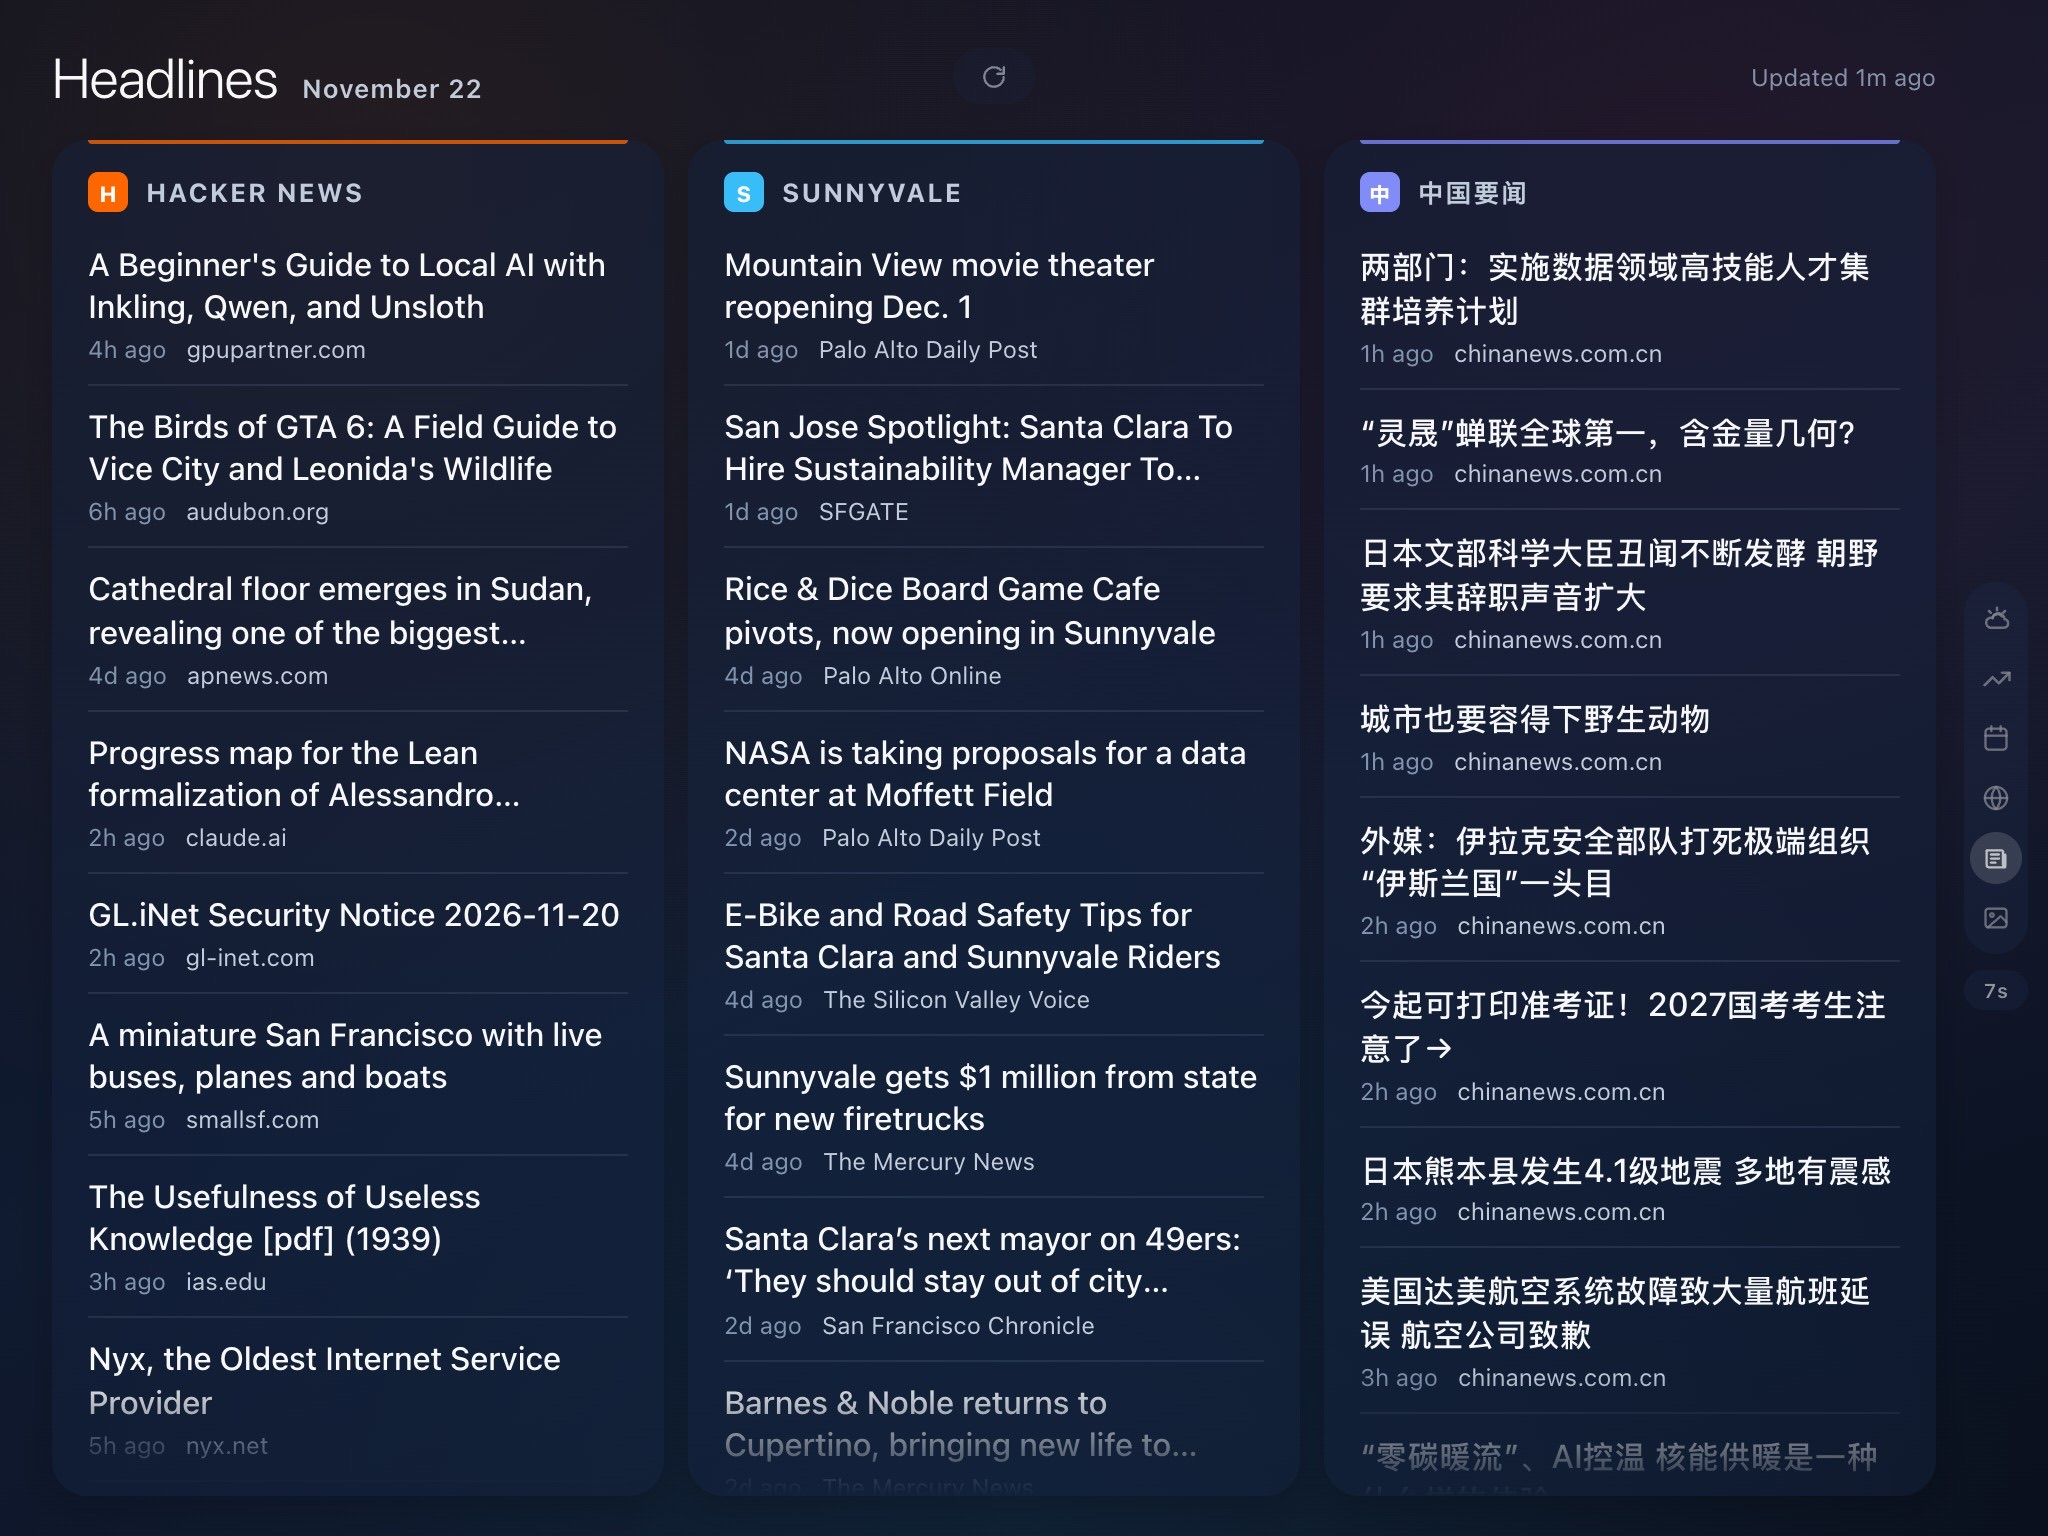
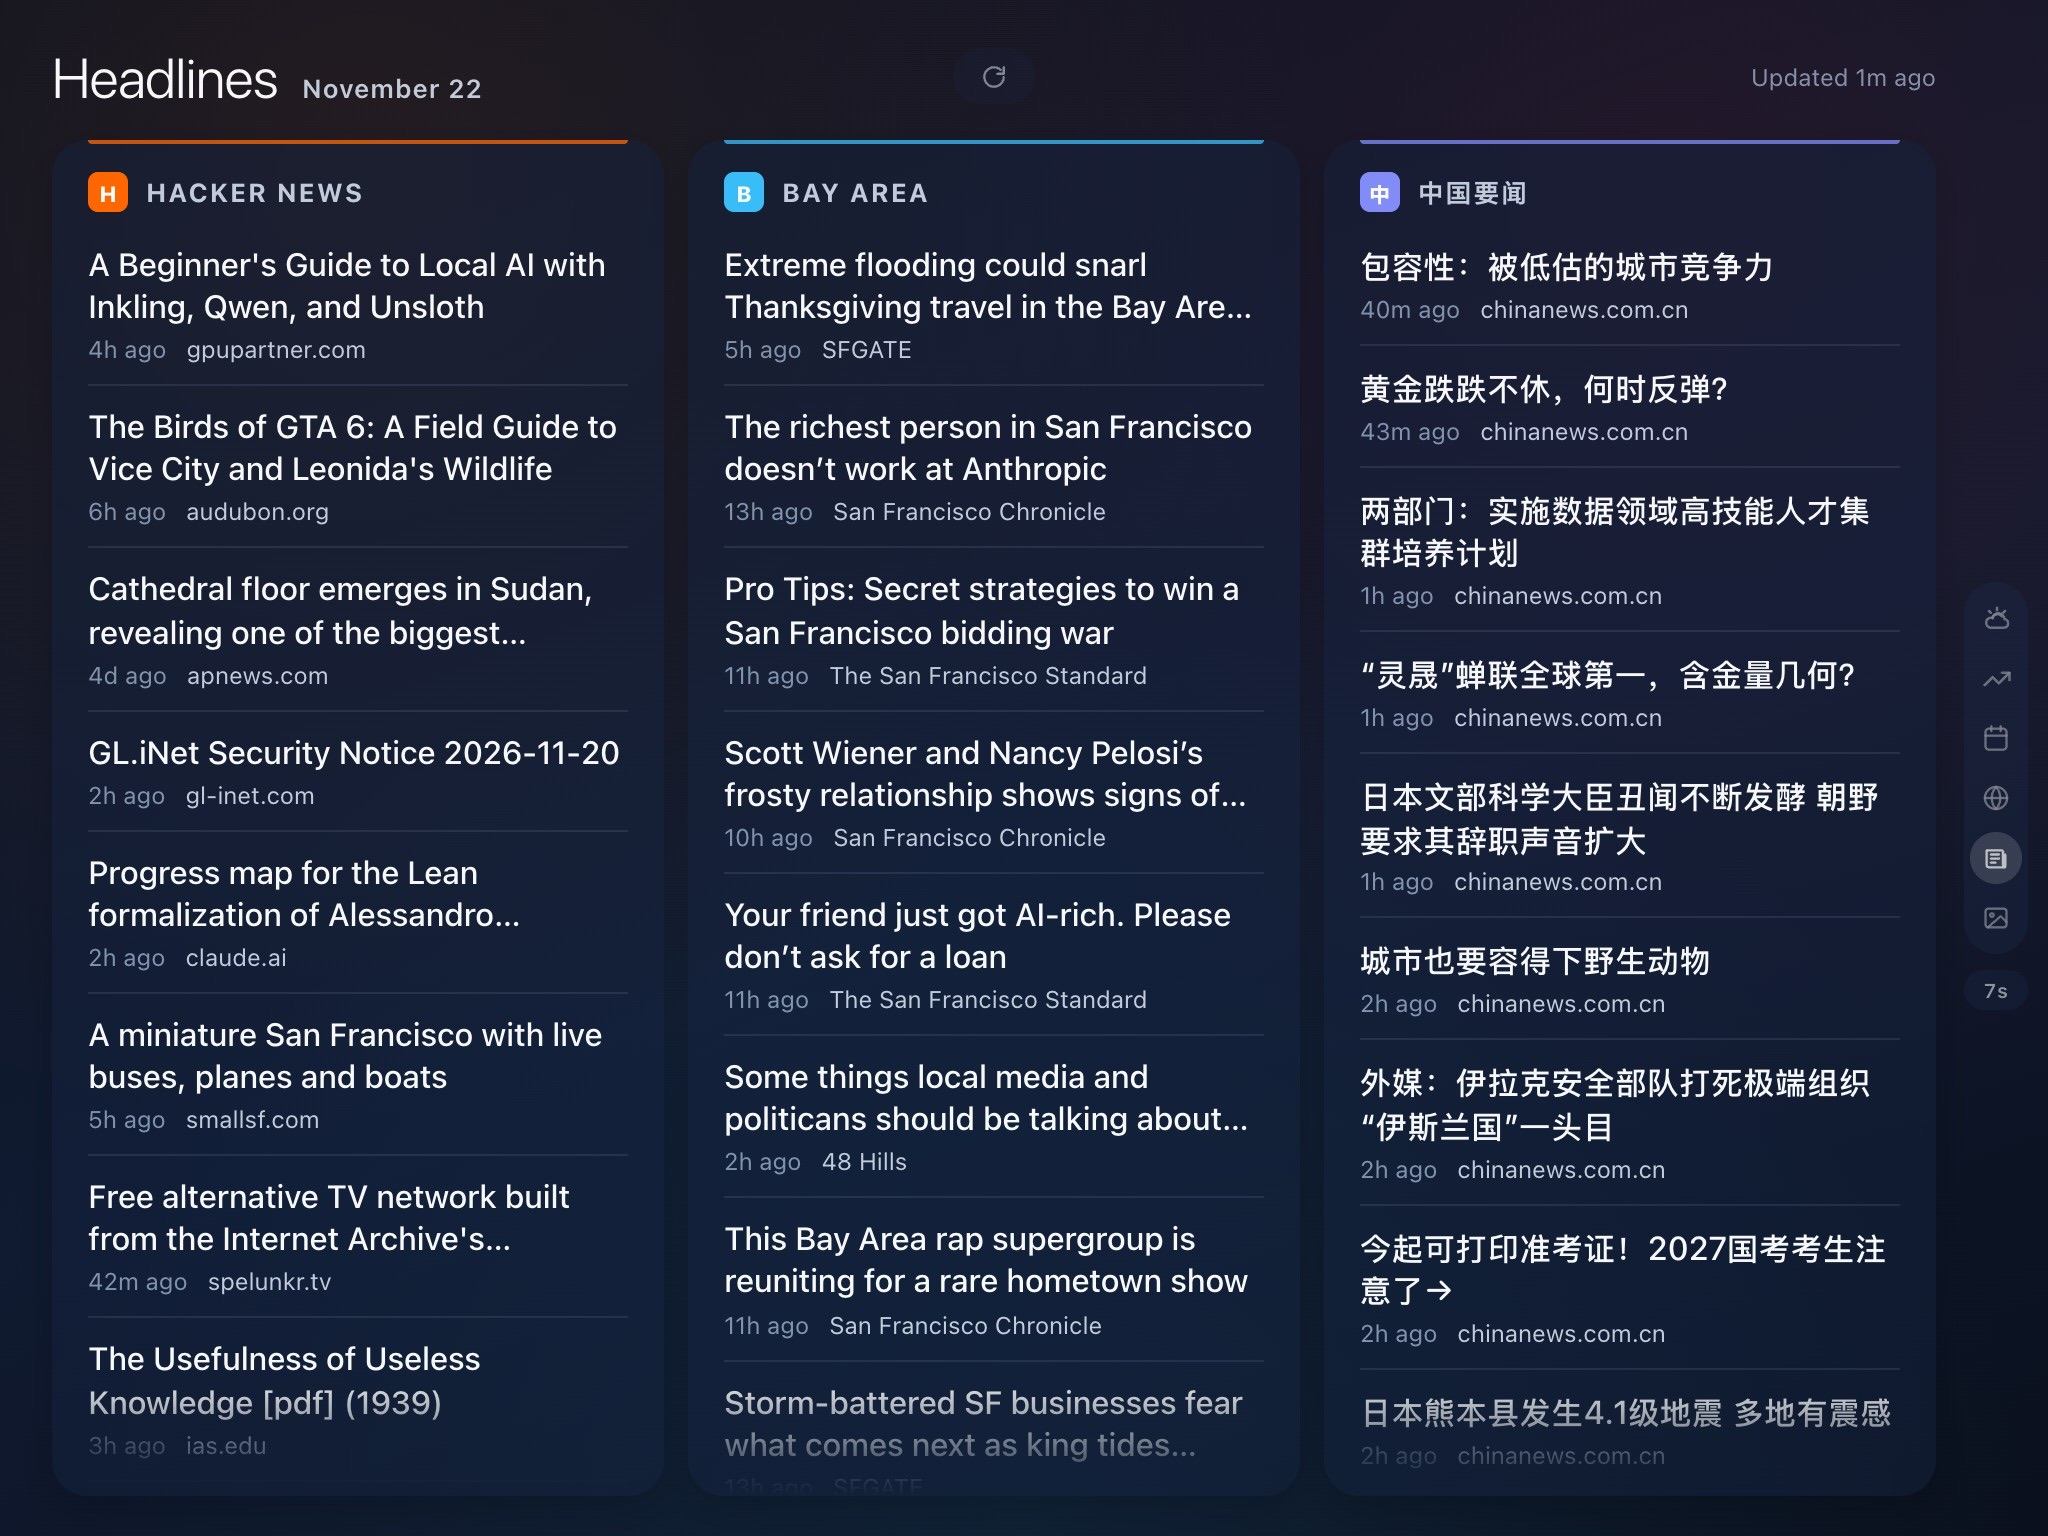
Use Bay Area local news feed in examples and README screenshot
Swap the Sunnyvale Google News location feed for the region-wide
San Francisco Bay Area one in the NEWS_FEEDS examples, and refresh the
Headlines screenshot.

diff --git a/README.md b/README.md
@@ -12,7 +12,7 @@ Captured at the iPad mini 2's 1024×768 landscape resolution (Retina 2×).
 | **Calendar** (demo mode) | **World** |
 | ![Calendar dashboard: month grid of color-coded Work, Personal, and Family events with Chinese lunar dates and US holidays, today's agenda, and a trip countdown](docs/screenshots/calendar.jpg) | ![World dashboard: day/night map with city arcs, ISS orbit, earthquakes, and FX currency cards](docs/screenshots/world.jpg) |
 | **Headlines** | **Photos** (demo mode) |
-| ![Headlines dashboard: one column per RSS feed — Hacker News, Sunnyvale-area local news, and Chinese headlines](docs/screenshots/news.jpg) | ![Photos frame: auto-collage of one portrait and two landscape stock photos](docs/screenshots/photos.jpg) |
+| ![Headlines dashboard: one column per RSS feed — Hacker News, Bay Area local news, and Chinese headlines](docs/screenshots/news.jpg) | ![Photos frame: auto-collage of one portrait and two landscape stock photos](docs/screenshots/photos.jpg) |
 
 ## Features
 
@@ -39,7 +39,7 @@ Captured at the iPad mini 2's 1024×768 landscape resolution (Retina 2×).
 - **Headlines Dashboard (Slide 5):**
   - **Your RSS feeds, one column each:** Reads up to 4 RSS 2.0, RSS 1.0/RDF, or Atom feeds from `NEWS_FEEDS` (Vercel Environment Variables or gitignored `.env.local`) and lays them out as equal-width columns in order. No per-site parsing: each item shows its title, age, and publisher. Each feed is cached for 15 minutes server-side, backs off for 5 minutes after a failure, and fails independently.
     ```
-    NEWS_FEEDS=[{"name":"Hacker News","url":"https://news.ycombinator.com/rss"},{"name":"Sunnyvale","url":"https://news.google.com/rss/headlines/section/geo/Sunnyvale%2C%20CA?hl=en-US&gl=US&ceid=US:en"},{"name":"中国要闻","url":"https://www.chinanews.com.cn/rss/importnews.xml"}]
+    NEWS_FEEDS=[{"name":"Hacker News","url":"https://news.ycombinator.com/rss"},{"name":"Bay Area","url":"https://news.google.com/rss/headlines/section/geo/San%20Francisco%20Bay%20Area?hl=en-US&gl=US&ceid=US:en"},{"name":"中国要闻","url":"https://www.chinanews.com.cn/rss/importnews.xml"}]
     ```
     Local news for any city: `https://news.google.com/rss/headlines/section/geo/<City>%2C%20<Region>?hl=en-US&gl=US&ceid=US:en`. Chinese-language feeds that work: 中新网 要闻 (`chinanews.com.cn/rss/importnews.xml`) or 滚动 (`…/scroll-news.xml`), 纽约时报中文网 (`cn.nytimes.com/rss/`), DW 中文 (`rss.dw.com/rdf/rss-chi-all`), RFI 中文 (`rfi.fr/cn/rss`), 人民网 时政 (`people.com.cn/rss/politics.xml`).
   - **Tap for a QR code:** Tapping any headline opens a popover with its summary and a QR code to open it on your phone, so the wall display never leaves the dashboard.
